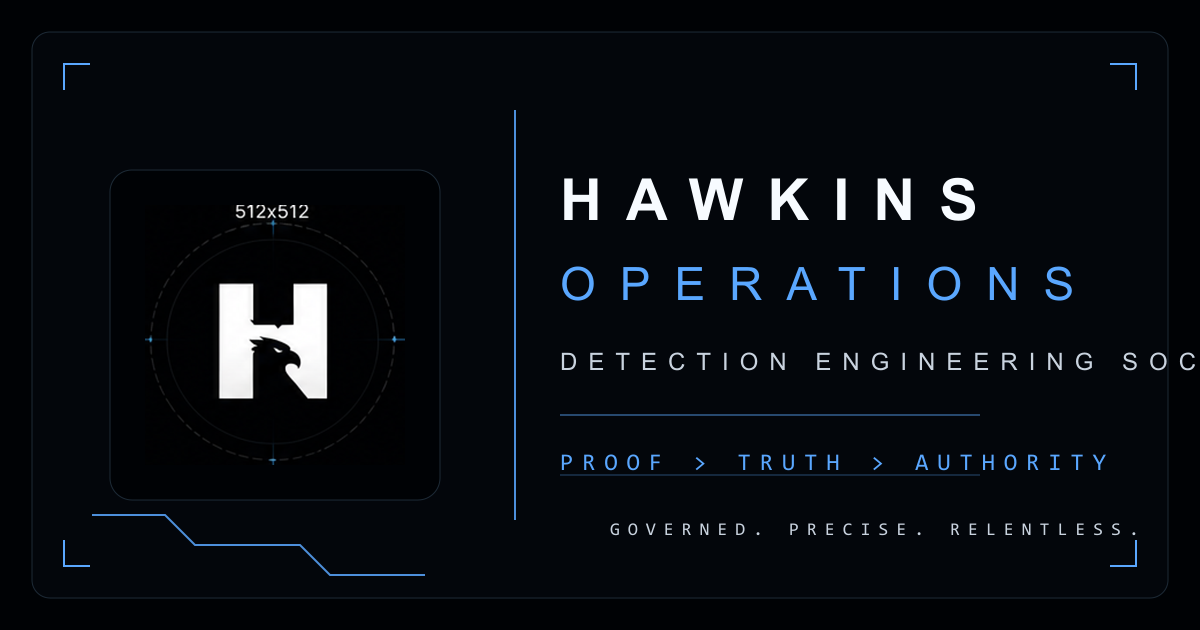
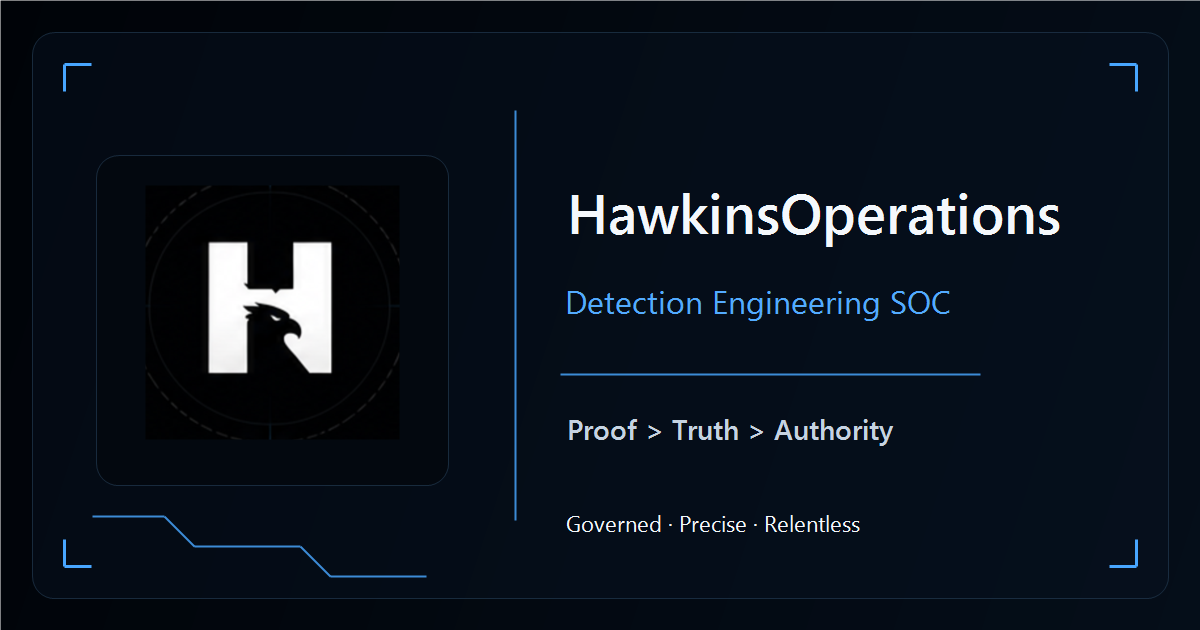
fix(site): clean social preview image and release hygiene
Website rendering / hygiene hotfix for Release 001 preparation.

Scope:
- clean OG/social preview image
- verify/add website release hygiene
- keep website as rendering surface only

Boundary:
- Website rendering is not proof
- Public ceiling remains CONTROLLED_TEST_VALIDATED
- Public-safe state remains NOT_PUBLIC_SAFE
- No runtime-active, signal-observed, production-ready, public-safe runtime proof, GPU CI proven, model execution in CI, AI-approved disposition, analyst-approved disposition, release, tag, ZIP, or signing claim is promoted

Pull request: fix(site): clean social preview image and release hygiene
## Summary
- Cleans the website Open Graph / social preview image so the logo panel no longer displays "512x512."
- Adds or verifies final website release hygiene for Release 001.
- Keeps website as public rendering surface only.

## Files changed
- .github/CODEOWNERS
- .github/workflows/governance-gate.yml
- LICENSE
- SECURITY.md
- public/og-preview.png

## Validation
- npm run check:site
- npm run typecheck
- npm run build
- git diff --check
- changed-file scans

## Claim boundary
Website rendering is not proof.
Public ceiling remains CONTROLLED_TEST_VALIDATED.
Public-safe state remains NOT_PUBLIC_SAFE.
This PR does not create a release, tag, ZIP, signature, Sigstore bundle, runtime proof, signal-observed proof, public-safe runtime proof, production readiness, SOCaaS, AI-approved disposition, analyst-approved disposition, or autonomous SOC claim.

## What this does not do
- Does not create GitHub Release
- Does not create tag
- Does not upload ZIP
- Does not sign artifacts
- Does not change proof repo
- Does not promote Proof Pack 001 as officially released
- Does not claim runtime-active, signal-observed, model execution in CI, GPU CI proven, or public-safe runtime proof

## Human review required
Green checks are not merge authority by themselves. Merge requires visible human governance review and MERGE_APPROVED.

diff --git a/SECURITY.md b/SECURITY.md
@@ -1,0 +1,32 @@
+# Security Policy
+
+## Scope
+
+This repository contains the public HawkinsOperations website. It is a public
+rendering surface for routing, documentation, and claim-bound summaries.
+Website rendering is not proof, and this policy does not imply managed
+monitoring, production support, runtime response coverage, service-level
+commitments, or public-safe runtime proof.
+
+## Reporting
+
+Do not post secrets, credentials, private paths, private hostnames, exploit
+details, sensitive operational data, or private environment details in public
+issues, pull requests, discussions, or comments.
+
+If GitHub private vulnerability reporting is available for this repository,
+use that route for sensitive reports. If it is not available, open a sanitized
+public issue that withholds sensitive details and provides only enough
+non-sensitive context to route the report.
+
+## Public Claim Boundary
+
+Reports, fixes, and website changes must preserve the public claim boundary:
+
+- Website rendering is not proof.
+- Public ceiling remains CONTROLLED_TEST_VALIDATED unless separately approved.
+- Public-safe state remains NOT_PUBLIC_SAFE unless separately approved.
+- Runtime-active, signal-observed, production-ready, public-safe runtime proof,
+  autonomous SOC, AI-approved disposition, analyst-approved disposition, and
+  customer or enterprise deployment claims must not be introduced by website
+  hygiene work.